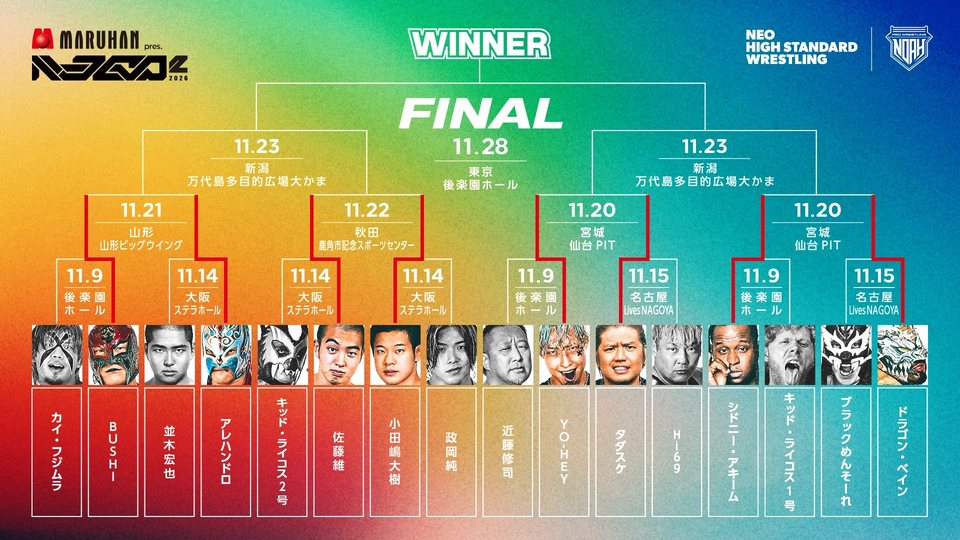
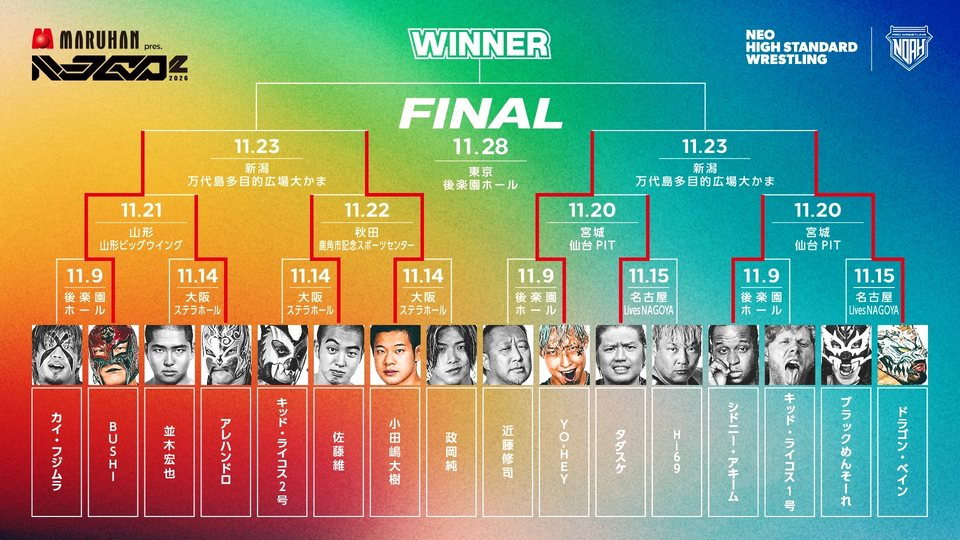
update njgp2 2026-11-22_1909

diff --git a/njgp2/index.html b/njgp2/index.html
@@ -110,6 +110,14 @@ ul{list-style:none}
 .m__w{display:inline-flex;align-items:center;gap:6px}
 .m__w em{font-style:normal;font-size:10px;font-weight:800;letter-spacing:.08em;background:#E60012;color:#fff;padding:2px 6px;line-height:1.2}
 .m__l{opacity:.55}
+.vs--txt{position:relative;padding:22px 24px}
+.vs--txt::before{content:"";position:absolute;left:0;top:0;right:0;height:4px;background:var(--rb)}
+.vs--txt figcaption{font-size:20px;padding:0}
+.vs--txt figcaption b{font-family:var(--ff-en);font-size:15px;border:1px solid #fff;padding:2px 8px}
+.more{margin-top:22px}
+.more summary{cursor:pointer;list-style:none;text-align:center;font-weight:800;font-size:14px;border:1px solid rgba(255,255,255,.5);padding:12px;max-width:320px;margin:0 auto;background:rgba(10,16,35,.75)}
+.more summary::-webkit-details-marker{display:none}
+.more[open] summary{margin-bottom:22px}
 .r1 + .r1{margin-top:44px}
 .r1__day{display:flex;align-items:baseline;gap:14px;font-weight:800;font-size:17px;margin-bottom:16px;padding-bottom:10px;border-bottom:1px solid var(--line)}
 .r1__day .en{font-size:30px;line-height:1}
@@ -432,24 +440,31 @@ ul{list-style:none}
 
   <section id="round1" class="sec">
     <div class="wrap">
-      <div class="sec__head"><p class="sec__en">MATCH CARDS</p><h2 class="sec__ja">対戦カード</h2><span class="sec__rule"></span></div><div class="rd"><h3 class="rd__t"><span class="en">2ND ROUND</span>2回戦</h3>
+      <div class="sec__head"><p class="sec__en">MATCH CARDS</p><h2 class="sec__ja">対戦カード</h2><span class="sec__rule"></span></div><div class="rd"><h3 class="rd__t"><span class="en">SEMI-FINAL</span>準決勝</h3>
+        <div class="r1">
+          <p class="r1__day"><span class="en">11.23</span><small>MON・祝</small>新潟・万代島多目的広場大かま</p>
+          <div class="r1__grid">
+          <figure class="vs vs--txt box"><figcaption><b>SF1</b>BUSHI<i>vs</i>小田嶋大樹<small class="m__note">※11.21 ❸の勝者 vs 11.22 ❹の勝者</small></figcaption></figure>
+          <figure class="vs vs--txt box"><figcaption><b>SF2</b>YO-HEY<i>vs</i>ドラゴン・ベイン<small class="m__note">※11.20 ❶の勝者 vs 11.20 ❷の勝者</small></figcaption></figure>
+          </div>
+        </div></div><div class="rd"><h3 class="rd__t"><span class="en">2ND ROUND</span>2回戦</h3>
         <div class="r1">
           <p class="r1__day"><span class="en">11.20</span><small>FRI</small>宮城・仙台PIT</p>
           <div class="r1__grid">
-          <figure class="vs"><img src="img/vs_yohey_tadasuke_960.jpg" srcset="img/vs_yohey_tadasuke_960.jpg 960w, img/vs_yohey_tadasuke.jpg 1920w" sizes="(max-width:900px) 100vw, 540px" alt="YO-HEY vs タダスケ" width="1920" height="1080" loading="lazy"><figcaption><b>❶</b>YO-HEY<i>vs</i>タダスケ</figcaption></figure>
-          <figure class="vs"><img src="img/vs_akeem_bane_960.jpg" srcset="img/vs_akeem_bane_960.jpg 960w, img/vs_akeem_bane.jpg 1920w" sizes="(max-width:900px) 100vw, 540px" alt="シドニー・アキーム vs ドラゴン・ベイン" width="1920" height="1080" loading="lazy"><figcaption><b>❷</b>シドニー・アキーム<i>vs</i>ドラゴン・ベイン</figcaption></figure>
+          <figure class="vs"><img src="img/vs_yohey_tadasuke_960.jpg" srcset="img/vs_yohey_tadasuke_960.jpg 960w, img/vs_yohey_tadasuke.jpg 1920w" sizes="(max-width:900px) 100vw, 540px" alt="YO-HEY vs タダスケ" width="1920" height="1080" loading="lazy"><figcaption><b>❶</b><span class="m__w">YO-HEY<em class="en">WIN</em></span><i>vs</i><span class="m__l">タダスケ</span></figcaption></figure>
+          <figure class="vs"><img src="img/vs_akeem_bane_960.jpg" srcset="img/vs_akeem_bane_960.jpg 960w, img/vs_akeem_bane.jpg 1920w" sizes="(max-width:900px) 100vw, 540px" alt="シドニー・アキーム vs ドラゴン・ベイン" width="1920" height="1080" loading="lazy"><figcaption><b>❷</b><span class="m__l">シドニー・アキーム</span><i>vs</i><span class="m__w">ドラゴン・ベイン<em class="en">WIN</em></span></figcaption></figure>
           </div>
         </div>
         <div class="r1">
           <p class="r1__day"><span class="en">11.21</span><small>SAT</small>山形・山形ビッグウイング</p>
           <div class="r1__grid">
-          <figure class="vs"><img src="img/vs_bushi_alejandro_960.jpg" srcset="img/vs_bushi_alejandro_960.jpg 960w, img/vs_bushi_alejandro.jpg 1920w" sizes="(max-width:900px) 100vw, 540px" alt="BUSHI vs アレハンドロ" width="1920" height="1080" loading="lazy"><figcaption><b>❸</b>BUSHI<i>vs</i>アレハンドロ</figcaption></figure>
+          <figure class="vs"><img src="img/vs_bushi_alejandro_960.jpg" srcset="img/vs_bushi_alejandro_960.jpg 960w, img/vs_bushi_alejandro.jpg 1920w" sizes="(max-width:900px) 100vw, 540px" alt="BUSHI vs アレハンドロ" width="1920" height="1080" loading="lazy"><figcaption><b>❸</b><span class="m__w">BUSHI<em class="en">WIN</em></span><i>vs</i><span class="m__l">アレハンドロ</span></figcaption></figure>
           </div>
         </div>
         <div class="r1">
           <p class="r1__day"><span class="en">11.22</span><small>SUN</small>秋田・鹿角市記念スポーツセンター</p>
           <div class="r1__grid">
-          <figure class="vs"><img src="img/vs_sato_odashima_960.jpg" srcset="img/vs_sato_odashima_960.jpg 960w, img/vs_sato_odashima.jpg 1920w" sizes="(max-width:900px) 100vw, 540px" alt="佐藤維 vs 小田嶋大樹" width="1920" height="1080" loading="lazy"><figcaption><b>❹</b>佐藤維<i>vs</i>小田嶋大樹</figcaption></figure>
+          <figure class="vs"><img src="img/vs_sato_odashima_960.jpg" srcset="img/vs_sato_odashima_960.jpg 960w, img/vs_sato_odashima.jpg 1920w" sizes="(max-width:900px) 100vw, 540px" alt="佐藤維 vs 小田嶋大樹" width="1920" height="1080" loading="lazy"><figcaption><b>❹</b><span class="m__l">佐藤維</span><i>vs</i><span class="m__w">小田嶋大樹<em class="en">WIN</em></span></figcaption></figure>
           </div>
         </div></div><div class="rd"><h3 class="rd__t"><span class="en">1ST ROUND</span>1回戦</h3>
         <div class="r1">
@@ -547,7 +562,7 @@ ul{list-style:none}
           <p class="sc__date en">11.23<small>MON・祝</small></p>
           <p class="sc__venue">新潟・万代島多目的広場大かま</p>
           <p class="sc__time">開場 <b class="en">16:30</b>　開始 <b class="en">17:30</b></p><a class="sc__mh" href="#maruhan">マルハンコラボブース・撮影会</a>
-          <details class="sc__cards"><summary>対戦カード</summary><ul><li><b>(1)</b><span>11.21 ❸の勝者<i>vs</i>11.22 ❹の勝者</span></li><li><b>(2)</b><span>11.20 ❶の勝者<i>vs</i>11.20 ❷の勝者</span></li></ul></details>
+          <details class="sc__cards"><summary>対戦カード</summary><ul><li><b>SF1</b><span>BUSHI <i>vs</i> 小田嶋大樹<small class="m__note">※11.21 ❸の勝者 vs 11.22 ❹の勝者</small></span></li><li><b>SF2</b><span>YO-HEY <i>vs</i> ドラゴン・ベイン<small class="m__note">※11.20 ❶の勝者 vs 11.20 ❷の勝者</small></span></li></ul></details>
           <p class="sc__tour">〜LETHAL ODYSSEY TOUR 2026〜</p>
           <a class="sc__tv sc__tv--wu" href="https://www.wrestle-universe.com/ja/noah" target="_blank" rel="noopener"><small>放送・配信</small>WRESTLE UNIVERSEで生中継&nbsp;↗</a>
           <a class="sc__map" href="https://www.google.com/maps/search/?api=1&query=%E4%B8%87%E4%BB%A3%E5%B3%B6%E5%A4%9A%E7%9B%AE%E7%9A%84%E5%BA%83%E5%A0%B4%20%E5%A4%A7%E3%81%8B%E3%81%BE" target="_blank" rel="noopener">会場の地図 ↗</a>
@@ -570,6 +585,25 @@ ul{list-style:none}
     <div class="wrap">
       <div class="sec__head"><p class="sec__en">NEWS</p><h2 class="sec__ja">ニュース</h2><span class="sec__rule"></span></div>
       <ul class="nws">
+        <li><a class="nw" href="https://www.noah.co.jp/news/8823/" target="_blank" rel="noopener"><img src="img/nw_8823.jpg" alt="" width="480" height="270" loading="lazy"><span class="nw__b"><span class="nw__m"><time class="en">2026.11.22</time><small>インタビュー</small></span><span class="nw__t">【11.21山形 バックステージコメント】BUSHIがアレハンドロを下しジュニアGP4強入り</span></span></a></li>
+        <li><a class="nw" href="https://www.noah.co.jp/news/8822/" target="_blank" rel="noopener"><img src="img/nw_8822.jpg" alt="" width="480" height="270" loading="lazy"><span class="nw__b"><span class="nw__m"><time class="en">2026.11.21</time><small>インタビュー</small></span><span class="nw__t">【11.20仙台 バックステージコメント】ベインがシドニーを破り準決勝へ▼YO-HEYがタダスケとの同門対決を制し4強一番乗り</span></span></a></li>
+        <li><a class="nw" href="https://www.noah.co.jp/news/8801/" target="_blank" rel="noopener"><img src="img/nw_8801.jpg" alt="" width="480" height="270" loading="lazy"><span class="nw__b"><span class="nw__m"><time class="en">2026.11.21</time><small>大会情報</small></span><span class="nw__t">【当日券発売します！】11月23日 新潟・万代島多目的広場大かま大会 チケット直前情報</span></span></a></li>
+        <li><a class="nw" href="https://www.noah.co.jp/news/8820/" target="_blank" rel="noopener"><img src="img/nw_8820.jpg" alt="" width="480" height="270" loading="lazy"><span class="nw__b"><span class="nw__m"><time class="en">2026.11.20</time><small>大会情報</small></span><span class="nw__t">いよいよSemi-Final！【11.23 新潟】追加対戦カード決定のお知らせ</span></span></a></li>
+        <li><a class="nw" href="https://www.noah.co.jp/news/8815/" target="_blank" rel="noopener"><img src="img/nw_8815.jpg" alt="" width="480" height="270" loading="lazy"><span class="nw__b"><span class="nw__m"><time class="en">2026.11.20</time><small>大会情報</small></span><span class="nw__t">【マルハン×NOAH】3Shotリングサイド撮影会 11.23新潟大会は鶴屋浩斗が登場！</span></span></a></li>
+        <li><a class="nw" href="https://www.noah.co.jp/news/8807/" target="_blank" rel="noopener"><img src="img/nw_8807.jpg" alt="" width="480" height="270" loading="lazy"><span class="nw__b"><span class="nw__m"><time class="en">2026.11.20</time><small>大会情報</small></span><span class="nw__t">【NJGP2開催中!】11月22日 鹿角市記念スポーツセンター大会 直前情報</span></span></a></li>
+        <li><a class="nw" href="https://www.noah.co.jp/news/8813/" target="_blank" rel="noopener"><img src="img/nw_8813.jpg" alt="" width="480" height="270" loading="lazy"><span class="nw__b"><span class="nw__m"><time class="en">2026.11.19</time><small>大会情報</small></span><span class="nw__t">【マルハン×NOAH】3Shotリングサイド撮影会 11.22秋田大会は小峠篤司が登場！</span></span></a></li>
+        <li><a class="nw" href="https://www.noah.co.jp/news/8812/" target="_blank" rel="noopener"><img src="img/nw_8812.jpg" alt="" width="480" height="270" loading="lazy"><span class="nw__b"><span class="nw__m"><time class="en">2026.11.19</time><small>大会情報</small></span><span class="nw__t">【マルハン×NOAH】3Shotリングサイド撮影会 11.21山形大会はアレハンドロが登場！</span></span></a></li>
+        <li><a class="nw" href="https://www.noah.co.jp/news/8811/" target="_blank" rel="noopener"><img src="img/nw_8811.jpg" alt="" width="480" height="270" loading="lazy"><span class="nw__b"><span class="nw__m"><time class="en">2026.11.19</time><small>大会情報</small></span><span class="nw__t">【マルハン×NOAH】3Shotリングサイド撮影会 11.20仙台大会はYoshiki Inamuraが登場！</span></span></a></li>
+        <li><a class="nw" href="https://www.noah.co.jp/news/8806/" target="_blank" rel="noopener"><img src="img/nw_8806.jpg" alt="" width="480" height="270" loading="lazy"><span class="nw__b"><span class="nw__m"><time class="en">2026.11.19</time><small>大会情報</small></span><span class="nw__t">【NJGP2開催中!】11月21日 山形ビッグウイング大会 直前情報</span></span></a></li>
+        <li><a class="nw" href="https://www.noah.co.jp/news/8809/" target="_blank" rel="noopener"><img src="img/nw_8809.jpg" alt="" width="480" height="270" loading="lazy"><span class="nw__b"><span class="nw__m"><time class="en">2026.11.18</time><small>メディア</small></span><span class="nw__t">11月18日発売『週刊プロレス』は11・14梅田＆11・15名古屋の「NOAH Jr. GRAND PRIX 2」1回戦を大詳報！</span></span></a></li>
+        <li><a class="nw" href="https://www.noah.co.jp/news/8808/" target="_blank" rel="noopener"><img src="img/nw_8808.jpg" alt="" width="480" height="270" loading="lazy"><span class="nw__b"><span class="nw__m"><time class="en">2026.11.18</time><small>インタビュー</small></span><span class="nw__t">【11.17保土ヶ谷 バックステージコメント】アレハンドロがBUSHIから直接ピン▼シドニーがベインから直接ピン</span></span></a></li>
+      </ul><details class="more"><summary>過去のニュースを見る（30件）</summary><ul class="nws">
+        <li><a class="nw" href="https://www.noah.co.jp/news/8805/" target="_blank" rel="noopener"><img src="img/nw_8805.jpg" alt="" width="480" height="270" loading="lazy"><span class="nw__b"><span class="nw__m"><time class="en">2026.11.18</time><small>大会情報</small></span><span class="nw__t">【NJGP2 準々決勝2試合開催!】11月20日 仙台PIT大会 直前情報</span></span></a></li>
+        <li><a class="nw" href="https://www.noah.co.jp/news/8799/" target="_blank" rel="noopener"><img src="img/nw_8799.jpg" alt="" width="480" height="270" loading="lazy"><span class="nw__b"><span class="nw__m"><time class="en">2026.11.18</time><small>グッズ</small></span><span class="nw__t">【小田嶋大樹が登場！】11.22 秋田・鹿角市記念スポーツセンター大会 試合前サイン会</span></span></a></li>
+        <li><a class="nw" href="https://www.noah.co.jp/news/8798/" target="_blank" rel="noopener"><img src="img/nw_8798.jpg" alt="" width="480" height="270" loading="lazy"><span class="nw__b"><span class="nw__m"><time class="en">2026.11.18</time><small>グッズ</small></span><span class="nw__t">【清宮海斗が登場！】11.21 山形・山形ビッグウイング大会 試合前サイン会</span></span></a></li>
+        <li><a class="nw" href="https://www.noah.co.jp/news/8797/" target="_blank" rel="noopener"><img src="img/nw_8797.jpg" alt="" width="480" height="270" loading="lazy"><span class="nw__b"><span class="nw__m"><time class="en">2026.11.18</time><small>グッズ</small></span><span class="nw__t">【ドラゴン・ベインが登場！】11.20 宮城・仙台PIT大会 試合前サイン会</span></span></a></li>
+        <li><a class="nw" href="https://www.noah.co.jp/news/8804/" target="_blank" rel="noopener"><img src="img/nw_8804.jpg" alt="" width="480" height="270" loading="lazy"><span class="nw__b"><span class="nw__m"><time class="en">2026.11.17</time><small>大会情報</small></span><span class="nw__t">＜カイvsウルフ決定！＞【11.28 後楽園】追加対戦カードのお知らせ</span></span></a></li>
+        <li><a class="nw" href="https://www.noah.co.jp/news/8803/" target="_blank" rel="noopener"><img src="img/nw_8803.jpg" alt="" width="480" height="270" loading="lazy"><span class="nw__b"><span class="nw__m"><time class="en">2026.11.17</time><small>大会情報</small></span><span class="nw__t">＜TEAM2000X対決！＞【11.23 新潟】追加対戦カード決定のお知らせ</span></span></a></li>
         <li><a class="nw" href="https://www.noah.co.jp/news/8786/" target="_blank" rel="noopener"><img src="img/nw_8786.jpg" alt="" width="480" height="270" loading="lazy"><span class="nw__b"><span class="nw__m"><time class="en">2026.11.15</time><small>インタビュー</small></span><span class="nw__t">【11.14大阪 バックステージコメント】小田嶋が政岡を下しジュニアGP2回戦へ▼佐藤維、アレハンドロも1回戦突破</span></span></a></li>
         <li><a class="nw" href="https://www.noah.co.jp/news/8787/" target="_blank" rel="noopener"><img src="img/nw_8787.jpg" alt="" width="480" height="270" loading="lazy"><span class="nw__b"><span class="nw__m"><time class="en">2026.11.14</time><small>大会情報</small></span><span class="nw__t">選手欠場／対戦カード変更のお知らせ（拳王選手欠場・11.15名古屋大会）</span></span></a></li>
         <li><a class="nw" href="https://www.noah.co.jp/news/8767/" target="_blank" rel="noopener"><img src="img/nw_8767.jpg" alt="" width="480" height="270" loading="lazy"><span class="nw__b"><span class="nw__m"><time class="en">2026.11.13</time><small>大会情報</small></span><span class="nw__t">【当日券は14日16時30分発売！】11月14日 大阪・梅田ステラホール大会 チケット直前情報</span></span></a></li>
@@ -593,8 +627,7 @@ ul{list-style:none}
         <li><a class="nw" href="https://www.noah.co.jp/news/8756/" target="_blank" rel="noopener"><img src="img/nw_8756.jpg" alt="" width="480" height="270" loading="lazy"><span class="nw__b"><span class="nw__m"><time class="en">2026.11.05</time><small>グッズ</small></span><span class="nw__t">【小田嶋大樹が登場！】11月9日（月）後楽園ホール大会 試合前サイン会開催</span></span></a></li>
         <li><a class="nw" href="https://www.noah.co.jp/news/8752/" target="_blank" rel="noopener"><img src="img/nw_8752.jpg" alt="" width="480" height="270" loading="lazy"><span class="nw__b"><span class="nw__m"><time class="en">2026.11.05</time><small>大会情報</small></span><span class="nw__t">【11/8 昼12時〜生中継！】後楽園ホール大会 記者会見＆調印式開催！</span></span></a></li>
         <li><a class="nw" href="https://www.noah.co.jp/news/8751/" target="_blank" rel="noopener"><img src="img/nw_8751.jpg" alt="" width="480" height="270" loading="lazy"><span class="nw__b"><span class="nw__m"><time class="en">2026.11.04</time><small>インタビュー</small></span><span class="nw__t">小田嶋大樹、2年連続のNOAH Jr. GRAND PRIX 2へ「何が何でも優勝」「外敵には渡さない」</span></span></a></li>
-        <li><a class="nw" href="https://www.noah.co.jp/news/8744/" target="_blank" rel="noopener"><img src="img/nw_8744.jpg" alt="" width="480" height="270" loading="lazy"><span class="nw__b"><span class="nw__m"><time class="en">2026.11.03</time><small>大会情報</small></span><span class="nw__t">【11.9後楽園】対戦カード変更＆試合順決定のお知らせ</span></span></a></li>
-      </ul>
+        <li><a class="nw" href="https://www.noah.co.jp/news/8744/" target="_blank" rel="noopener"><img src="img/nw_8744.jpg" alt="" width="480" height="270" loading="lazy"><span class="nw__b"><span class="nw__m"><time class="en">2026.11.03</time><small>大会情報</small></span><span class="nw__t">【11.9後楽園】対戦カード変更＆試合順決定のお知らせ</span></span></a></li></ul></details>
       <p class="tk__more"><a class="btn btn--ghost" href="https://www.noah.co.jp/news/" target="_blank" rel="noopener">NOAH公式サイト ニュース一覧 ↗</a></p>
     </div>
   </section>
@@ -610,7 +643,7 @@ ul{list-style:none}
         <article class="mhe box"><p class="mhe__no en">03</p><h3 class="mhe__t">LINE友だち登録で選手ステッカーをプレゼント</h3><p class="mhe__x">全8大会の会場にLINE友だち登録ブースを設置。NOAH公式LINEの友だち登録画面をご提示いただいた方に、出場選手のステッカー（全16種）を1枚プレゼント！ 友だち登録済みの方、その場でご登録いただいた方も対象です。</p>
           <dl class="mhe__spec"><dt>実施期間</dt><dd>11月9日（月）〜11月28日（土）全8大会</dd><dt>実施場所</dt><dd>各大会会場のLINE友だち登録ブース（開場〜大会終了まで）</dd><dt>参加方法</dt><dd>ブースでNOAH公式LINEの友だち登録画面をご提示ください</dd></dl><ul class="mh__notes"><li>ステッカーのお渡しは、1大会につきおひとり様1枚とさせていただきます。</li><li>ステッカーはなくなり次第終了とさせていただきます。</li></ul></article>
       </div>
-      <div class="mhv box"><h3 class="mhv__t">実施会場・撮影会開始時間</h3><ul><li><b class="en">11.15</b><small class="en">SUN</small><span>愛知・Lives NAGOYA</span><strong class="mhv__ph">撮影会 <b class="en">14:30</b>〜（ブラックめんそーれ）</strong><em>開場 14:00／試合開始 15:00</em></li><li><b class="en">11.20</b><small class="en">FRI</small><span>宮城・仙台PIT</span><strong class="mhv__ph">撮影会 <b class="en">18:30</b>〜</strong><em>開場 18:00／試合開始 19:00</em></li><li><b class="en">11.21</b><small class="en">SAT</small><span>山形・山形ビッグウイング</span><strong class="mhv__ph">撮影会 <b class="en">16:30</b>〜</strong><em>開場 16:00／試合開始 17:00</em></li><li><b class="en">11.22</b><small class="en">SUN</small><span>秋田・鹿角市記念スポーツセンター</span><strong class="mhv__ph">撮影会 <b class="en">14:30</b>〜</strong><em>開場 14:00／試合開始 15:00</em></li><li><b class="en">11.23</b><small class="en">MON・祝</small><span>新潟・万代島多目的広場大かま</span><strong class="mhv__ph">撮影会 <b class="en">17:00</b>〜</strong><em>開場 16:30／試合開始 17:30</em></li></ul><ul class="mh__notes"><li>撮影会の開始時間は、当初のご案内から変更となっております。ご来場の際は、上記時間をご確認ください。</li></ul></div>
+      <div class="mhv box"><h3 class="mhv__t">実施会場・撮影会開始時間</h3><ul><li><b class="en">11.15</b><small class="en">SUN</small><span>愛知・Lives NAGOYA</span><strong class="mhv__ph">撮影会 <b class="en">14:30</b>〜（ブラックめんそーれ）</strong><em>開場 14:00／試合開始 15:00</em></li><li><b class="en">11.20</b><small class="en">FRI</small><span>宮城・仙台PIT</span><strong class="mhv__ph">撮影会 <b class="en">18:30</b>〜（Yoshiki Inamura）</strong><em>開場 18:00／試合開始 19:00</em></li><li><b class="en">11.21</b><small class="en">SAT</small><span>山形・山形ビッグウイング</span><strong class="mhv__ph">撮影会 <b class="en">16:30</b>〜（アレハンドロ）</strong><em>開場 16:00／試合開始 17:00</em></li><li><b class="en">11.22</b><small class="en">SUN</small><span>秋田・鹿角市記念スポーツセンター</span><strong class="mhv__ph">撮影会 <b class="en">14:30</b>〜（小峠篤司）</strong><em>開場 14:00／試合開始 15:00</em></li><li><b class="en">11.23</b><small class="en">MON・祝</small><span>新潟・万代島多目的広場大かま</span><strong class="mhv__ph">撮影会 <b class="en">17:00</b>〜（鶴屋浩斗）</strong><em>開場 16:30／試合開始 17:30</em></li></ul><ul class="mh__notes"><li>撮影会の開始時間は、当初のご案内から変更となっております。ご来場の際は、上記時間をご確認ください。</li></ul></div>
       <div class="mhp box"><img class="mh__banner" src="img/news_8755_960.jpg" srcset="img/news_8755_960.jpg 960w, img/news_8755.jpg 1920w" sizes="(max-width:900px) 100vw, 860px" alt="マルハン×NOAH 3Shotリングサイド撮影会開催" width="1920" height="1080" loading="lazy"><h3 class="mhp__t">にゃんまる×選手 3Shot リングサイド撮影会 参加方法</h3>
         <ol class="cp__steps mhp__steps"><li><b class="en">1</b><span><strong>撮影会参加券を受け取る</strong>大会当日、会場の当日券売り場にて撮影会参加券を配布いたします。参加券はお子さま1名につき1枚、数量限定での配布となります。</span></li><li><b class="en">2</b><span><strong>撮影会開始時間までに集合</strong>参加券と撮影機器をお持ちのうえ、撮影会開始時間までに指定の集合場所へお越しください。集合場所は当日会場内にてご案内いたします。</span></li><li><b class="en">3</b><span><strong>にゃんまる＆選手と記念撮影！</strong>撮影時にスタッフへ参加券をお渡しいただき、リングサイドでの記念撮影をお楽しみください！</span></li></ol>
         <details class="cp__more"><summary>注意事項</summary><ul class="mh__notes"><li>参加券はお子さま1名につき1枚、各会場お一人様1回限り有効です。</li><li>参加券は数量限定となり、なくなり次第配布終了となります。</li><li>撮影会は列が途切れ次第終了となります。必ず開始時間までに集合場所へお越しください。</li><li>撮影会は試合開始前の限られた時間で実施いたします。当日の進行状況により、参加券をお持ちの場合でも撮影いただけない場合がございます。</li><li>撮影会終了後の個別撮影には対応いたしかねます。</li><li>撮影会中のサイン対応やプレゼントのお渡しはご遠慮ください。</li><li>当日はスタッフの案内・誘導にご協力をお願いいたします。</li><li>撮影会の内容は、都合により変更・中止となる場合がございます。</li></ul></details>
@@ -661,26 +694,27 @@ ul{list-style:none}
           <li class="gd"><img src="img/sh_acst.jpg" alt="内藤哲也vs拳王 GHCヘビー級選手権 ジオラマアクリルスタンド" width="960" height="540" loading="lazy"><p class="gd__n">内藤哲也vs拳王 GHCヘビー級選手権 ジオラマアクリルスタンド</p><p class="gd__p en shop__p"><span>会場 ¥4,000</span><span>通販 ¥4,400</span></p><p class="gd__note">数量限定／リング12cm四方・選手約8cm</p></li>
       </ul>
       <p class="tk__more"><a class="btn btn--pri" href="https://shop.noah.co.jp/collections/newitem" target="_blank" rel="noopener">NOAH THE SHOP（公式通販）↗</a></p>
-      <div class="sign box">
-        <p class="sign__lab en">SIGNING</p>
-        <h3 class="sign__t">試合前サイン会</h3>
-        <p class="sign__day en">11.14 SAT　大阪・梅田スカイビル ステラホール</p><p class="sign__who"><i><span>登場選手</span><b>小田嶋大樹</b></i><i><span>開始</span><b class="en">17:15〜</b></i><a class="sign__lnk" href="https://www.noah.co.jp/news/8776/" target="_blank" rel="noopener">詳細 ↗</a></p><p class="sign__day en">11.15 SUN　愛知・Lives NAGOYA</p><p class="sign__who"><i><span>登場選手</span><b>清宮海斗</b></i><i><span>開始</span><b class="en">14:15〜</b></i><a class="sign__lnk" href="https://www.noah.co.jp/news/8777/" target="_blank" rel="noopener">詳細 ↗</a></p>
-        <p class="sign__x">会場グッズ売店で対象商品を1点購入ごとに、サイン会参加券を1枚お渡しします。</p><ul class="mh__notes"><li>1Shot撮影を含む、選手の撮影はすべて禁止です。</li><li>参加券は予定枚数がなくなり次第、配布終了となります。</li><li>サインは購入グッズ、またはNOAHオリジナル色紙にお入れします。名前・日付入れはお断りしています。</li><li>選手への差し入れ・プレゼントはお受けできません。</li></ul>
-      </div>
+
     </div>
   </section>
   <section id="movie" class="sec">
     <div class="wrap">
       <div class="sec__head"><p class="sec__en">MOVIE</p><h2 class="sec__ja">動画</h2><span class="sec__rule"></span></div>
       <div class="videos">
+        <div class="video"><button class="video__frame" type="button" data-id="fgRwnTVOzBw" aria-label="動画を再生"><img src="img/video_fgRwnTVOzBw.jpg" alt="YO-HEYとドラゴン・ベインが NOAH Jr. GRAND PRIX 2 準決勝で激突！ 11.23新潟で決勝進出を懸けた戦いへ" loading="lazy" width="1280" height="720"><span class="video__play"></span></button><p class="video__title">YO-HEYとドラゴン・ベインが NOAH Jr. GRAND PRIX 2 準決勝で激突！ 11.23新潟で決勝進出を懸けた戦いへ</p></div>
+        <div class="video"><button class="video__frame" type="button" data-id="IYZgJUDtKWo" aria-label="動画を再生"><img src="img/video_IYZgJUDtKWo.jpg" alt="【11.21山形大会・試合後コメント集】" loading="lazy" width="1280" height="720"><span class="video__play"></span></button><p class="video__title">【11.21山形大会・試合後コメント集】</p></div>
+        <div class="video"><button class="video__frame" type="button" data-id="BTxBZarWYLY" aria-label="動画を再生"><img src="img/video_BTxBZarWYLY.jpg" alt="【11.20仙台大会・試合後コメント集】" loading="lazy" width="1280" height="720"><span class="video__play"></span></button><p class="video__title">【11.20仙台大会・試合後コメント集】</p></div>
+        <div class="video"><button class="video__frame" type="button" data-id="5QbgG55Sj4g" aria-label="動画を再生"><img src="img/video_5QbgG55Sj4g.jpg" alt="11.21山形での2回戦を前に、アレハンドロがBUSHIとの前哨戦で直接勝利！" loading="lazy" width="1280" height="720"><span class="video__play"></span></button><p class="video__title">11.21山形での2回戦を前に、アレハンドロがBUSHIとの前哨戦で直接勝利！</p></div>
+        <div class="video"><button class="video__frame" type="button" data-id="0An1SvfbbJM" aria-label="動画を再生"><img src="img/video_0An1SvfbbJM.jpg" alt="【11.17保土ヶ谷大会・試合後コメント集】" loading="lazy" width="1280" height="720"><span class="video__play"></span></button><p class="video__title">【11.17保土ヶ谷大会・試合後コメント集】</p></div>
+        <div class="video"><button class="video__frame" type="button" data-id="_DAGgUoTy8o" aria-label="動画を再生"><img src="img/video__DAGgUoTy8o.jpg" alt="【11.15名古屋大会・試合後コメント集】" loading="lazy" width="1280" height="720"><span class="video__play"></span></button><p class="video__title">【11.15名古屋大会・試合後コメント集】</p></div>
+      </div><details class="more"><summary>過去の動画を見る（7本）</summary><div class="videos">
         <div class="video"><button class="video__frame" type="button" data-id="MzuzgnqHp3I" aria-label="動画を再生"><img src="img/video_MzuzgnqHp3I.jpg" alt="小田嶋大樹が政岡純を制し、NOAH Jr. GRAND PRIX 2 の2回戦に進出！" loading="lazy" width="1280" height="720"><span class="video__play"></span></button><p class="video__title">小田嶋大樹が政岡純を制し、NOAH Jr. GRAND PRIX 2 の2回戦に進出！</p></div>
         <div class="video"><button class="video__frame" type="button" data-id="9AzXTKucfko" aria-label="動画を再生"><img src="img/video_9AzXTKucfko.jpg" alt="【11.14大阪大会・試合後コメント集】" loading="lazy" width="1280" height="720"><span class="video__play"></span></button><p class="video__title">【11.14大阪大会・試合後コメント集】</p></div>
         <div class="video"><button class="video__frame" type="button" data-id="m__mdQ6pxmI" aria-label="動画を再生"><img src="img/video_m__mdQ6pxmI.jpg" alt="【全試合ダイジェスト】NOAH Jr. GRAND PRIX 2 開幕戦！ 11.9後楽園ホール大会まとめ" loading="lazy" width="1280" height="720"><span class="video__play"></span></button><p class="video__title">【全試合ダイジェスト】NOAH Jr. GRAND PRIX 2 開幕戦！ 11.9後楽園ホール大会まとめ</p></div>
         <div class="video"><button class="video__frame" type="button" data-id="8Cxm0jKZ2Hs" aria-label="動画を再生"><img src="img/video_8Cxm0jKZ2Hs.jpg" alt="【11.9後楽園ホール大会・試合後コメント集】" loading="lazy" width="1280" height="720"><span class="video__play"></span></button><p class="video__title">【11.9後楽園ホール大会・試合後コメント集】</p></div>
         <div class="video"><button class="video__frame" type="button" data-id="_YHrM7u1bmY" aria-label="動画を再生"><img src="img/video__YHrM7u1bmY.jpg" alt="11.9後楽園ホール大会 前日記者会見＆調印式（NOAH公式YouTube）" loading="lazy" width="1280" height="720"><span class="video__play"></span></button><p class="video__title">11.9後楽園ホール大会 前日記者会見＆調印式（NOAH公式YouTube）</p></div>
         <div class="video"><button class="video__frame" type="button" data-id="TkT0l13mjhs" aria-label="動画を再生"><img src="img/video_TkT0l13mjhs.jpg" alt="【祝マルハン協賛記念コラボ】OZAWAがパチスロ実践！（マルハン北日本カンパニー×NOAH 前編）" loading="lazy" width="1280" height="720"><span class="video__play"></span></button><p class="video__title">【祝マルハン協賛記念コラボ】OZAWAがパチスロ実践！（マルハン北日本カンパニー×NOAH 前編）</p></div>
-        <div class="video"><button class="video__frame" type="button" data-id="X3tb0H9NQvk" aria-label="動画を再生"><img src="img/video_X3tb0H9NQvk.jpg" alt="【祝マルハン協賛記念コラボ】OZAWAがパチスロ実践！（マルハン北日本カンパニー×NOAH 後編）" loading="lazy" width="1280" height="720"><span class="video__play"></span></button><p class="video__title">【祝マルハン協賛記念コラボ】OZAWAがパチスロ実践！（マルハン北日本カンパニー×NOAH 後編）</p></div>
-      </div>
+        <div class="video"><button class="video__frame" type="button" data-id="X3tb0H9NQvk" aria-label="動画を再生"><img src="img/video_X3tb0H9NQvk.jpg" alt="【祝マルハン協賛記念コラボ】OZAWAがパチスロ実践！（マルハン北日本カンパニー×NOAH 後編）" loading="lazy" width="1280" height="720"><span class="video__play"></span></button><p class="video__title">【祝マルハン協賛記念コラボ】OZAWAがパチスロ実践！（マルハン北日本カンパニー×NOAH 後編）</p></div></div></details>
     </div>
   </section>
   <script>document.querySelectorAll('.video__frame[data-id]').forEach(function(b){b.addEventListener('click',function(){var f=document.createElement('iframe');f.src='https://www.youtube-nocookie.com/embed/'+b.dataset.id+'?autoplay=1&rel=0';f.title='YouTube video';f.allow='accelerometer; autoplay; clipboard-write; encrypted-media; gyroscope; picture-in-picture; web-share';f.allowFullscreen=true;f.className='video__iframe';b.replaceWith(f);});});</script>

diff --git a/src/njgp2/build.py b/src/njgp2/build.py
@@ -55,9 +55,10 @@ def cards(rnd):
     out = ''
     for e in D['events']:
         if e.get('round') != rnd: continue
-        cs = [m for m in e['matches'] if m.get('img')]
+        cs = [m for m in e['matches'] if m.get('a')]
         if not cs: continue
         items = ''.join(f'''
+          <figure class="vs vs--txt box"><figcaption><b>{m['no']}</b>{pname(m, 'a')}<i>vs</i>{pname(m, 'b')}{note(m)}</figcaption></figure>''' if not m.get('img') else f'''
           <figure class="vs"><img src="img/{m['img']}_960.jpg" srcset="img/{m['img']}_960.jpg 960w, img/{m['img']}.jpg 1920w" sizes="(max-width:900px) 100vw, 540px" alt="{esc(P[m['a']]['name'])} vs {esc(P[m['b']]['name'])}" width="1920" height="1080" loading="lazy"><figcaption><b>{m['no']}</b>{pname(m, 'a')}<i>vs</i>{pname(m, 'b')}{note(m)}</figcaption></figure>''' for m in cs)
         out += f'''
         <div class="r1">
@@ -69,7 +70,7 @@ def cards(rnd):
 
 def rounds():  # 新しいラウンドを上に
     out = ''
-    for rnd, en in (('2回戦', '2ND ROUND'), ('1回戦', '1ST ROUND')):
+    for rnd, en in (('準決勝', 'SEMI-FINAL'), ('2回戦', '2ND ROUND'), ('1回戦', '1ST ROUND')):
         c = cards(rnd)
         if c: out += f'<div class="rd"><h3 class="rd__t"><span class="en">{en}</span>{rnd}</h3>{c}</div>'
     return out
@@ -161,14 +162,16 @@ def goods():
 
 def news():
     if not D.get('news'): return ''
-    items = ''.join(f"""
-        <li><a class="nw" href="{esc(n['url'])}" target="_blank" rel="noopener"><img src="img/{n['img']}.jpg" alt="" width="480" height="270" loading="lazy"><span class="nw__b"><span class="nw__m"><time class="en">{esc(n['date'])}</time><small>{esc(n['cat'])}</small></span><span class="nw__t">{esc(n['title'])}</span></span></a></li>""" for n in D['news'])
+    nw = lambda xs: ''.join(f"""
+        <li><a class="nw" href="{esc(n['url'])}" target="_blank" rel="noopener"><img src="img/{n['img']}.jpg" alt="" width="480" height="270" loading="lazy"><span class="nw__b"><span class="nw__m"><time class="en">{esc(n['date'])}</time><small>{esc(n['cat'])}</small></span><span class="nw__t">{esc(n['title'])}</span></span></a></li>""" for n in xs)
+    NS = D['news']; items = nw(NS[:12])
+    rest = f'<details class="more"><summary>過去のニュースを見る（{len(NS) - 12}件）</summary><ul class="nws">{nw(NS[12:])}</ul></details>' if len(NS) > 12 else ''
     return f"""
   <section id="news" class="sec">
     <div class="wrap">
       {sec_head('ニュース', 'NEWS')}
       <ul class="nws">{items}
-      </ul>
+      </ul>{rest}
       <p class="tk__more"><a class="btn btn--ghost" href="https://www.noah.co.jp/news/" target="_blank" rel="noopener">NOAH公式サイト ニュース一覧 ↗</a></p>
     </div>
   </section>"""
@@ -179,6 +182,12 @@ def shop():
     items = ''.join(f"""
           <li class="gd"><img src="img/{i['img']}.jpg" alt="{esc(i['name'])}" width="960" height="540" loading="lazy"><p class="gd__n">{esc(i['name'])}</p><p class="gd__p en shop__p">{''.join(f'<span>{esc(x)}</span>' for x in i['price'].split('／'))}</p>{('<p class="gd__note">' + esc(i['note']) + '</p>') if i.get('note') else ''}</li>""" for i in S['items'])
     G = S['sign']
+    sign_html = (f'''      <div class="sign box">
+        <p class="sign__lab en">SIGNING</p>
+        <h3 class="sign__t">{esc(G['title'])}</h3>
+        {''.join(f"""<p class="sign__day en">{esc(r['date'])}</p><p class="sign__who"><i><span>登場選手</span><b>{esc(r['who'])}</b></i><i><span>開始</span><b class="en">{esc(r['time'])}</b></i><a class="sign__lnk" href="{esc(r['url'])}" target="_blank" rel="noopener">詳細 ↗</a></p>""" for r in G['rows'])}
+        <p class="sign__x">{esc(G['text'])}</p>{notes_ul(G['notes'])}
+      </div>''') if G.get('rows') else ''
     return f"""
   <section id="shop" class="sec">
     <div class="wrap">
@@ -187,26 +196,23 @@ def shop():
       <ul class="gds shop__gds">{items}
       </ul>
       <p class="tk__more"><a class="btn btn--pri" href="{esc(S['url'])}" target="_blank" rel="noopener">NOAH THE SHOP（公式通販）↗</a></p>
-      <div class="sign box">
-        <p class="sign__lab en">SIGNING</p>
-        <h3 class="sign__t">{esc(G['title'])}</h3>
-        {''.join(f"""<p class="sign__day en">{esc(r['date'])}</p><p class="sign__who"><i><span>登場選手</span><b>{esc(r['who'])}</b></i><i><span>開始</span><b class="en">{esc(r['time'])}</b></i><a class="sign__lnk" href="{esc(r['url'])}" target="_blank" rel="noopener">詳細 ↗</a></p>""" for r in G['rows'])}
-        <p class="sign__x">{esc(G['text'])}</p>{notes_ul(G['notes'])}
-      </div>
+{sign_html}
     </div>
   </section>"""
 
 def movie():
     V = D.get('videos') or []
     if not V: return ''
-    cards = ''.join(f"""
-        <div class="video"><button class="video__frame" type="button" data-id="{esc(v['id'])}" aria-label="動画を再生"><img src="img/video_{esc(v['id'])}.jpg" alt="{esc(v['title'])}" loading="lazy" width="1280" height="720"><span class="video__play"></span></button><p class="video__title">{esc(v['title'])}</p></div>""" for v in V)
+    vc = lambda xs: ''.join(f"""
+        <div class="video"><button class="video__frame" type="button" data-id="{esc(v['id'])}" aria-label="動画を再生"><img src="img/video_{esc(v['id'])}.jpg" alt="{esc(v['title'])}" loading="lazy" width="1280" height="720"><span class="video__play"></span></button><p class="video__title">{esc(v['title'])}</p></div>""" for v in xs)
+    cards = vc(V[:6])
+    rest = f'<details class="more"><summary>過去の動画を見る（{len(V) - 6}本）</summary><div class="videos">{vc(V[6:])}</div></details>' if len(V) > 6 else ''
     return f"""
   <section id="movie" class="sec">
     <div class="wrap">
       {sec_head('動画', 'MOVIE')}
       <div class="videos">{cards}
-      </div>
+      </div>{rest}
     </div>
   </section>
   <script>document.querySelectorAll('.video__frame[data-id]').forEach(function(b){{b.addEventListener('click',function(){{var f=document.createElement('iframe');f.src='https://www.youtube-nocookie.com/embed/'+b.dataset.id+'?autoplay=1&rel=0';f.title='YouTube video';f.allow='accelerometer; autoplay; clipboard-write; encrypted-media; gyroscope; picture-in-picture; web-share';f.allowFullscreen=true;f.className='video__iframe';b.replaceWith(f);}});}});</script>"""
@@ -310,6 +316,14 @@ ul{{list-style:none}}
 .m__w{{display:inline-flex;align-items:center;gap:6px}}
 .m__w em{{font-style:normal;font-size:10px;font-weight:800;letter-spacing:.08em;background:#E60012;color:#fff;padding:2px 6px;line-height:1.2}}
 .m__l{{opacity:.55}}
+.vs--txt{{position:relative;padding:22px 24px}}
+.vs--txt::before{{content:"";position:absolute;left:0;top:0;right:0;height:4px;background:var(--rb)}}
+.vs--txt figcaption{{font-size:20px;padding:0}}
+.vs--txt figcaption b{{font-family:var(--ff-en);font-size:15px;border:1px solid #fff;padding:2px 8px}}
+.more{{margin-top:22px}}
+.more summary{{cursor:pointer;list-style:none;text-align:center;font-weight:800;font-size:14px;border:1px solid rgba(255,255,255,.5);padding:12px;max-width:320px;margin:0 auto;background:rgba(10,16,35,.75)}}
+.more summary::-webkit-details-marker{{display:none}}
+.more[open] summary{{margin-bottom:22px}}
 .r1 + .r1{{margin-top:44px}}
 .r1__day{{display:flex;align-items:baseline;gap:14px;font-weight:800;font-size:17px;margin-bottom:16px;padding-bottom:10px;border-bottom:1px solid var(--line)}}
 .r1__day .en{{font-size:30px;line-height:1}}
